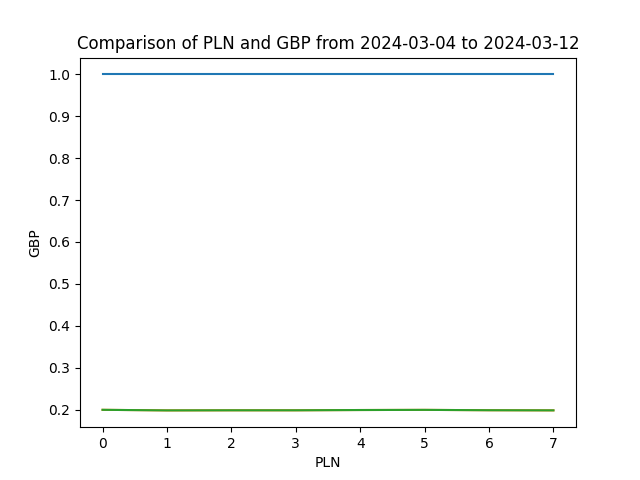
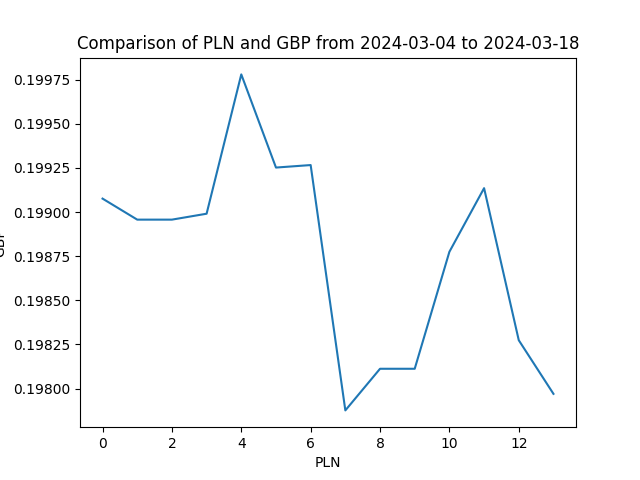
project rest api

diff --git a/project_rest_api/templates/index.html b/project_rest_api/templates/index.html
@@ -4,13 +4,34 @@
         <title>Basic Form</title>
     </head>
     <body>
-        <h1>Basic White Form</h1>
-        <form method="POST" enctype="multipart/form-data">
-            <label for="username">Username:</label><br>
-            <input type="text" name="username"><br>
-            <label for="password">Password:</label><br>
-            <input type="text" name="password"><br>
-            <input type="submit" value="Submit">
-        </form>
+        <div style="width:400px; margin:0 auto;">
+            <h1>Basic Form</h1>
+            <form method="POST" action="/results" enctype="multipart/form-data">
+                <label for="currency1">Currency to sell:
+                    <select name="currency1">
+                    <option value="USD">USD</option>
+                    <option value="PLN">PLN</option>
+                    <option value="GBP">GBP</option>
+                    <option value="EUR">EUR</option>
+                    </select>
+                </label><br><br>
+                <label for="currency2">Currency to buy:
+                    <select name="currency2">
+                    <option value="USD">USD</option>
+                    <option value="PLN">PLN</option>
+                    <option value="GBP">GBP</option>
+                    <option value="EUR">EUR</option>
+                    </select>
+                </label><br><br>
+
+                <label for="start_date">Date range<br>
+                    from: <input type="date" name="start_date">
+                </label>
+                <label for="end_date">
+                    to: <input type="date" name="end_date">
+                </label><br><br>
+                <input type="submit" value="Submit">
+            </form>
+        </div>
     </body>
 </html>

diff --git a/project_rest_api/templates/results.html b/project_rest_api/templates/results.html
@@ -1,9 +1,21 @@
 <!DOCTYPE html>
 <html>
 <head>
-    <title>Item Details</title>
+    <title>Results</title>
 </head>
 <body>
-    <h1>Item ID: {{ id }}</h1>
+    <div style="width:400px; margin:0 auto;">
+        Current exchange rate<br>
+        1 {{ curr1 }} = {{ conversion_rate }} {{ curr2 }}
+        <br><br>
+        <img width=400 src="{{ url_for('static', path='currency.png') }}" /><br>
+        <br><br>
+        Cat
+        <br>
+        <img width=400px src={{ cat }} /><br>
+        <form method="GET" action="/" enctype="multipart/form-data">
+            <input type="submit" value="Try again">
+        </form>
+    </div>
 </body>
 </html>

diff --git a/project_rest_api/schemas.py b/project_rest_api/schemas.py
@@ -1,0 +1,111 @@
+from fastapi import Form
+from pydantic import BaseModel
+from datetime import date
+from abc import ABC, abstractmethod
+import os
+from dotenv import load_dotenv
+import matplotlib.pyplot as plt
+import numpy as np
+
+
+load_dotenv()
+
+
+class CustomForm(BaseModel):
+    currency1: str
+    currency2: str
+    start_date: date
+    end_date: date
+
+    @classmethod
+    def as_form(
+            cls,
+            currency1: str = Form(...),
+            currency2: str = Form(...),
+            start_date: date = Form(...),
+            end_date: date = Form(...),
+    ):
+        return cls(
+            currency1=currency1,
+            currency2=currency2,
+            start_date=start_date,
+            end_date=end_date,
+        )
+
+
+class Exchange(ABC):
+    _singleton: 'Exchange' = None
+
+    def __init__(self, key):
+        self.api_key: str = key
+
+    @classmethod
+    def get_singleton(cls):
+        if cls._singleton is None:
+            cls._singleton = cls(cls.get_api_key())
+        return cls._singleton
+
+    @classmethod
+    @abstractmethod
+    def get_api_key(cls):
+        ...
+
+    @abstractmethod
+    def get_link(self, form: CustomForm):
+        ...
+
+
+class ExRate(Exchange):
+    _singleton: 'ExRate' = None
+
+    @classmethod
+    def get_api_key(cls):
+        api_key: str = os.getenv("EX_RATE_API_KEY")
+        return api_key
+
+    def get_link(self, form: CustomForm):
+        link = f"https://v6.exchangerate-api.com/v6/" \
+               f"{self.api_key}/pair/{form.currency1}/{form.currency2}"
+        return link
+
+
+class FxRate(Exchange):
+    _singleton: 'FxRate' = None
+
+    @classmethod
+    def get_api_key(cls):
+        api_key: str = os.getenv("FX_RATE_API_KEY")
+        return api_key
+
+    def get_link(self, form: CustomForm):
+        link = f"https://api.fxratesapi.com/" \
+               f"timeseries?start_date={form.start_date}&end_date={form.end_date}"
+        return link
+
+
+def get_cat_link():
+    return "https://api.thecatapi.com/v1/images/search"
+
+
+def process_data(data, form: CustomForm):
+    values1 = []
+    values2 = []
+    for rate in data.json()['rates']:
+        for currency, val in data.json()['rates'][rate].items():
+            if currency.lower() == form.currency1.lower():
+                values1.append(val)
+            if currency.lower() == form.currency2.lower():
+                values2.append(val)
+
+    values1, values2 = np.array(values1), np.array(values2)
+
+    plt.show()
+
+    plt.plot(list(range(len(values1))), values2 / values1)
+    plt.xlabel(f"{form.currency1}")
+    plt.ylabel(f"{form.currency2}")
+    plt.title(f"Comparison of {form.currency1} and {form.currency2} "
+              f"from {form.start_date} to {form.end_date}")
+
+    plt.savefig('static/currency.png')
+

diff --git a/project_rest_api/app.py b/project_rest_api/app.py
@@ -1,3 +1,80 @@
-from fastapi import FastAPI
+from fastapi import FastAPI, Request, Depends, status, HTTPException
+from fastapi.responses import HTMLResponse, JSONResponse
+from fastapi.templating import Jinja2Templates
+from fastapi.exceptions import RequestValidationError
+from fastapi.encoders import jsonable_encoder
+from datetime import date
+from starlette.staticfiles import StaticFiles
+from schemas import CustomForm, ExRate, FxRate, get_cat_link, process_data
+import httpx
+import asyncio
+
 
 app = FastAPI()
+templates = Jinja2Templates(directory="templates")
+app.mount("/static", StaticFiles(directory="static"), name="static")
+
+
+@app.exception_handler(RequestValidationError)
+async def validation_exception_handler(request: Request, exc: RequestValidationError):
+    errors = []
+    to_remove = ['url', 'input']
+    for error in exc.errors():
+        for rm in to_remove:
+            if rm in error:
+                del error[rm]
+        errors.append(error)
+    return JSONResponse(
+        status_code=status.HTTP_422_UNPROCESSABLE_ENTITY,
+        content=jsonable_encoder({"Code": 422, "Errors": errors}),
+    )
+
+
+@app.get('/', response_class=HTMLResponse, status_code=201)
+async def get_basic_form(request: Request):
+    return templates.TemplateResponse(request=request, name="index.html")
+
+
+@app.post('/results', response_class=HTMLResponse, status_code=202)
+async def post_form(request: Request, form: CustomForm = Depends(CustomForm.as_form)):
+    context = await parse_request(form)
+    return templates.TemplateResponse(request=request, name="results.html", context=context)
+
+
+async def fetch_data(form: CustomForm):
+    urls = [
+        get_cat_link(),
+        ExRate.get_singleton().get_link(form),
+        FxRate.get_singleton().get_link(form),
+    ]
+    async with httpx.AsyncClient() as client:
+        reqs = [client.get(url) for url in urls]
+        result = await asyncio.gather(*reqs)
+
+    return result
+
+
+async def parse_request(form: CustomForm):
+    if not form.start_date <= form.end_date <= date.today():
+        if form.start_date > form.end_date:
+            msg = "Start date must be before end date"
+        else:
+            msg = "End date must be before today's date"
+        raise HTTPException(
+            status_code=404,
+            detail=msg,
+        )
+
+    result = await fetch_data(form)
+    for data in result:
+        if data.status_code >= 400:
+            raise HTTPException(
+                status_code=500,
+                detail="Resources not found",
+            )
+
+    cat, ex_rate, fx_rate = result
+    process_data(fx_rate, form)
+    return {"cat": cat.json()[0]['url'], "conversion_rate": ex_rate.json()['conversion_rate'],
+            "curr1": form.currency1, "curr2": form.currency2}
+
